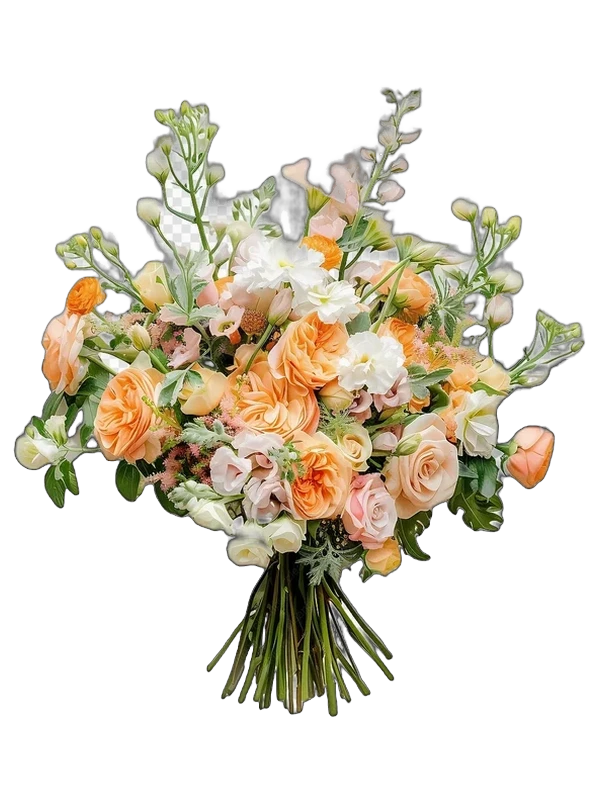
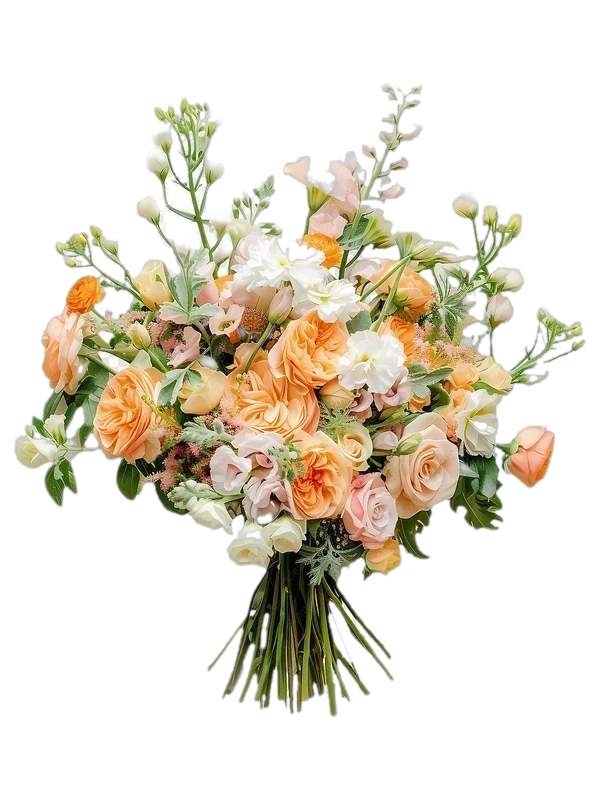
Персиковый букет дочищен: убраны остатки шахматного фона (пятно сверху и белый блоб) и серые «туманы», восстановлена тень правого белого цветка, кромка среза смягчена; sw wc-v67

Changed region(s): [[0.03, 0.0938, 0.99, 0.9062]]

diff --git a/sw.js b/sw.js
@@ -3,7 +3,7 @@
    поднимай номер версии (ниже и в ?v=... у тегов в index.html),
    иначе телефон покажет старую копию. */
 
-const VERSION = 'wc-v66';
+const VERSION = 'wc-v67';
 
 const ASSETS = [
   './',
